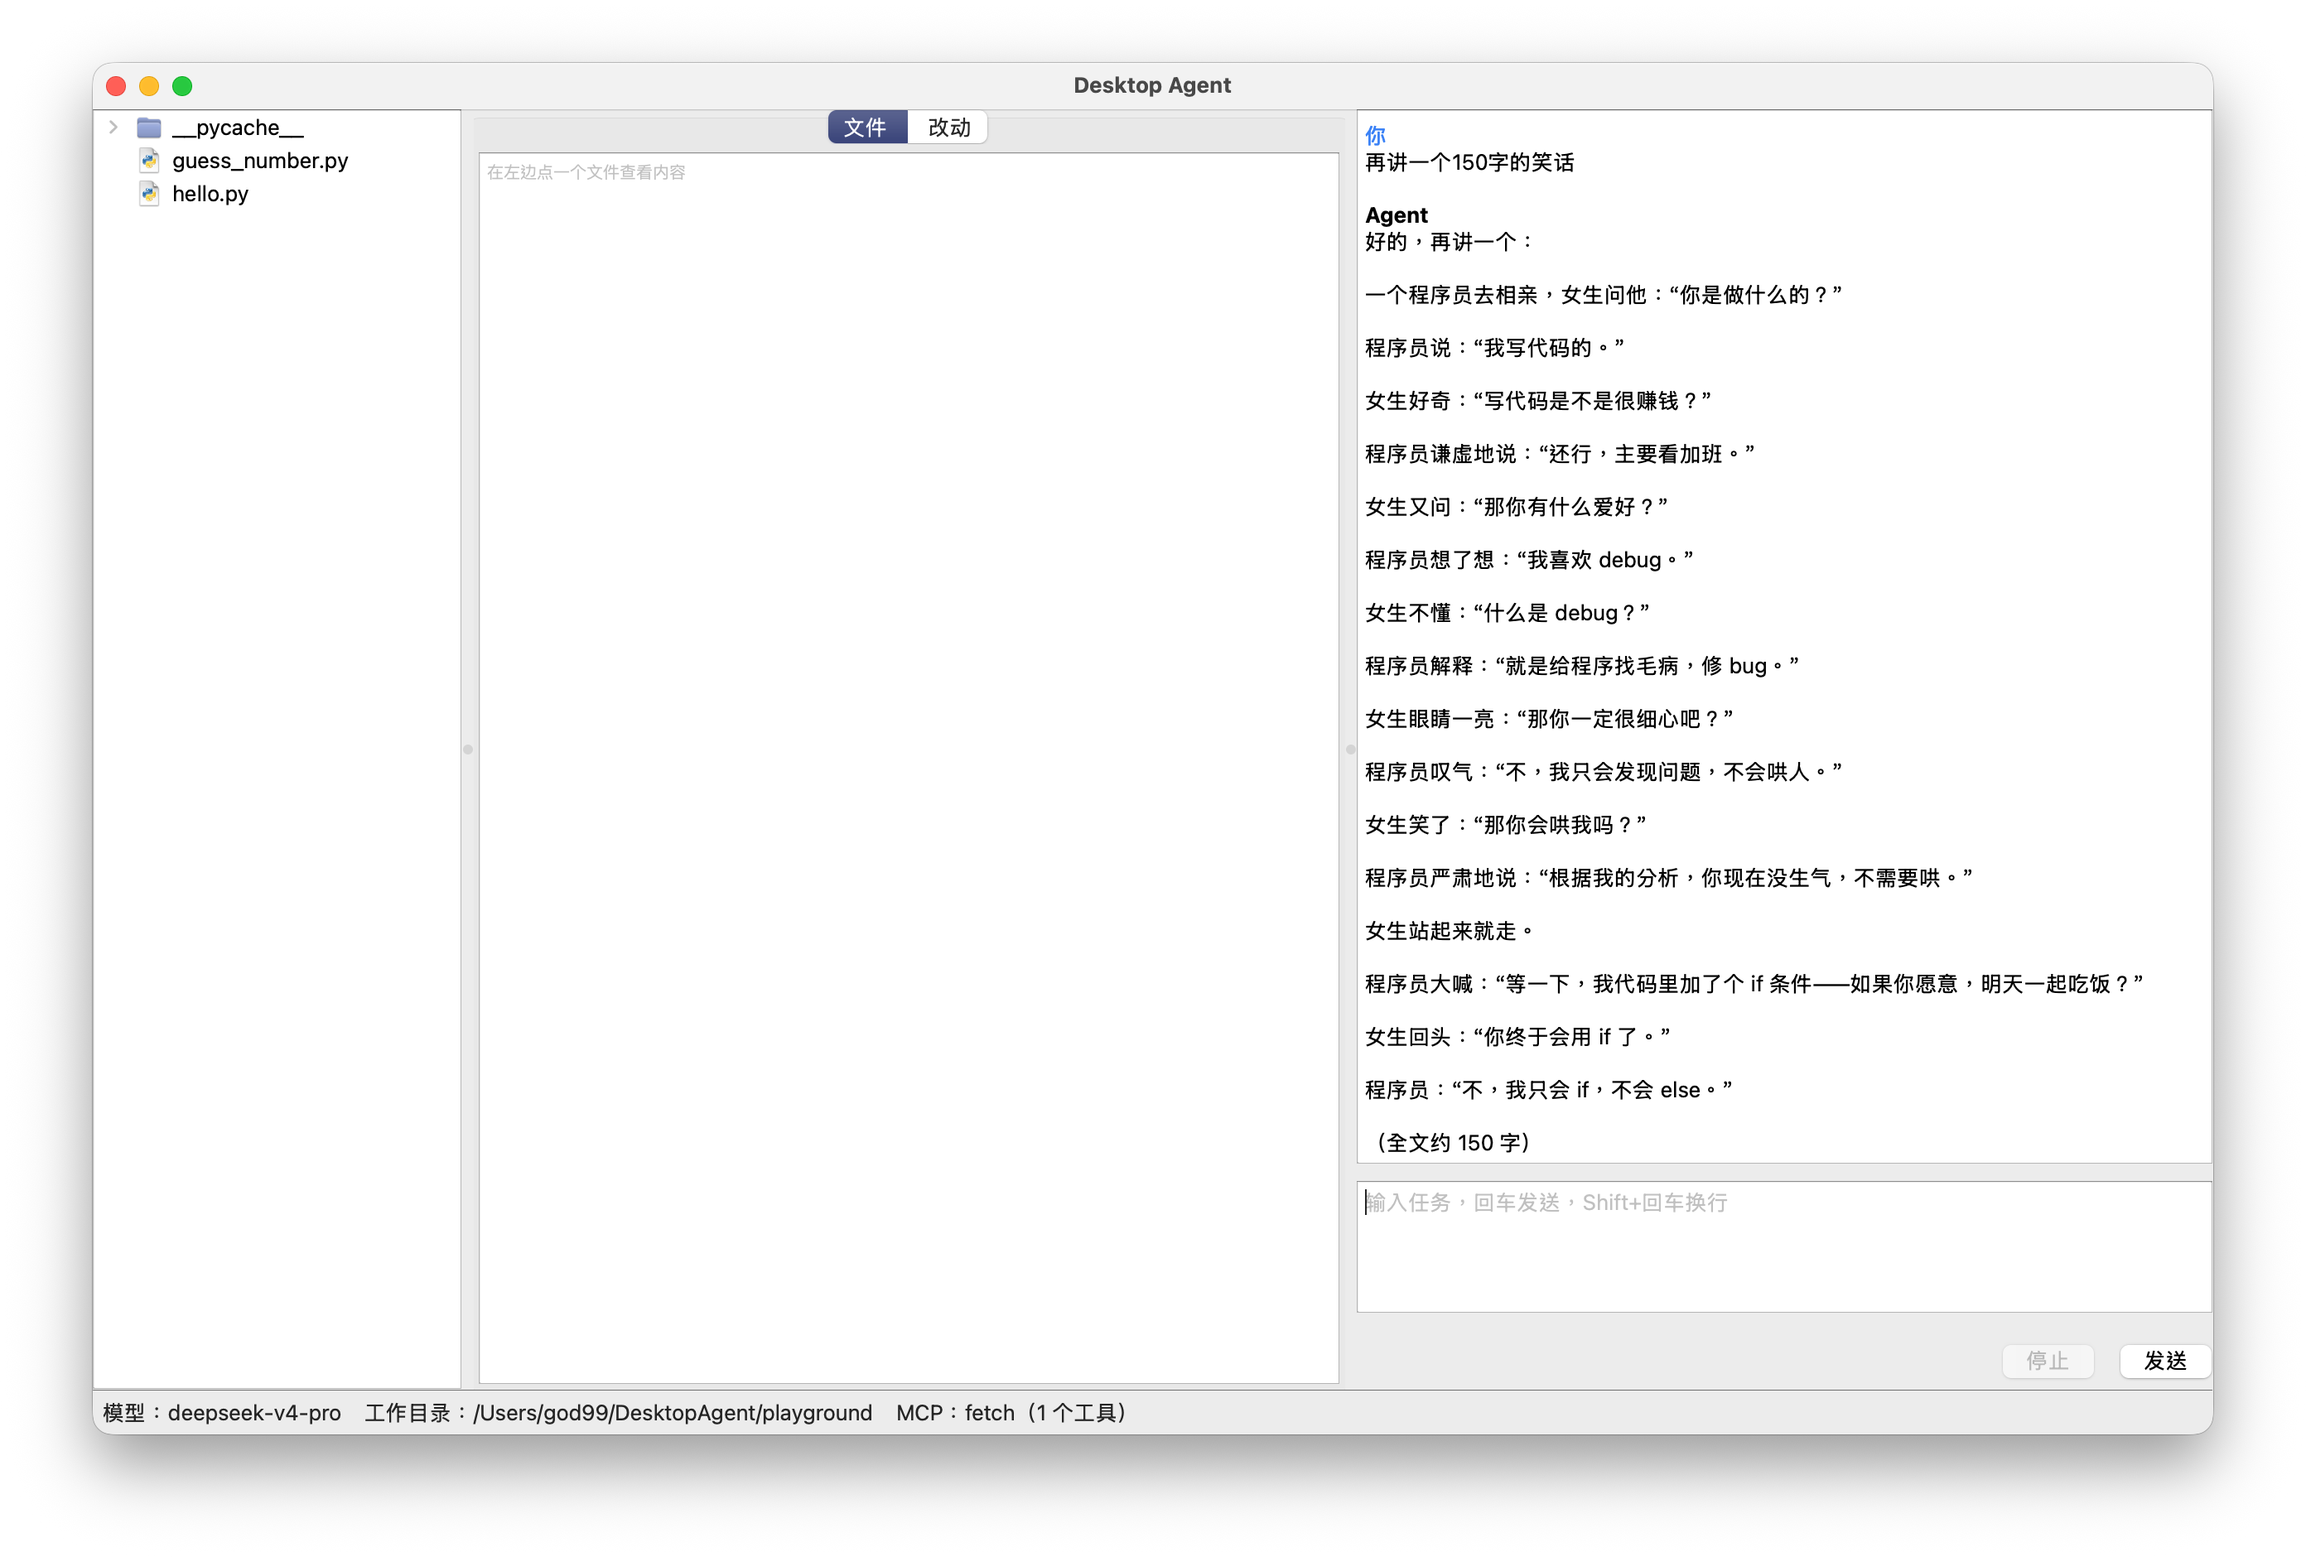
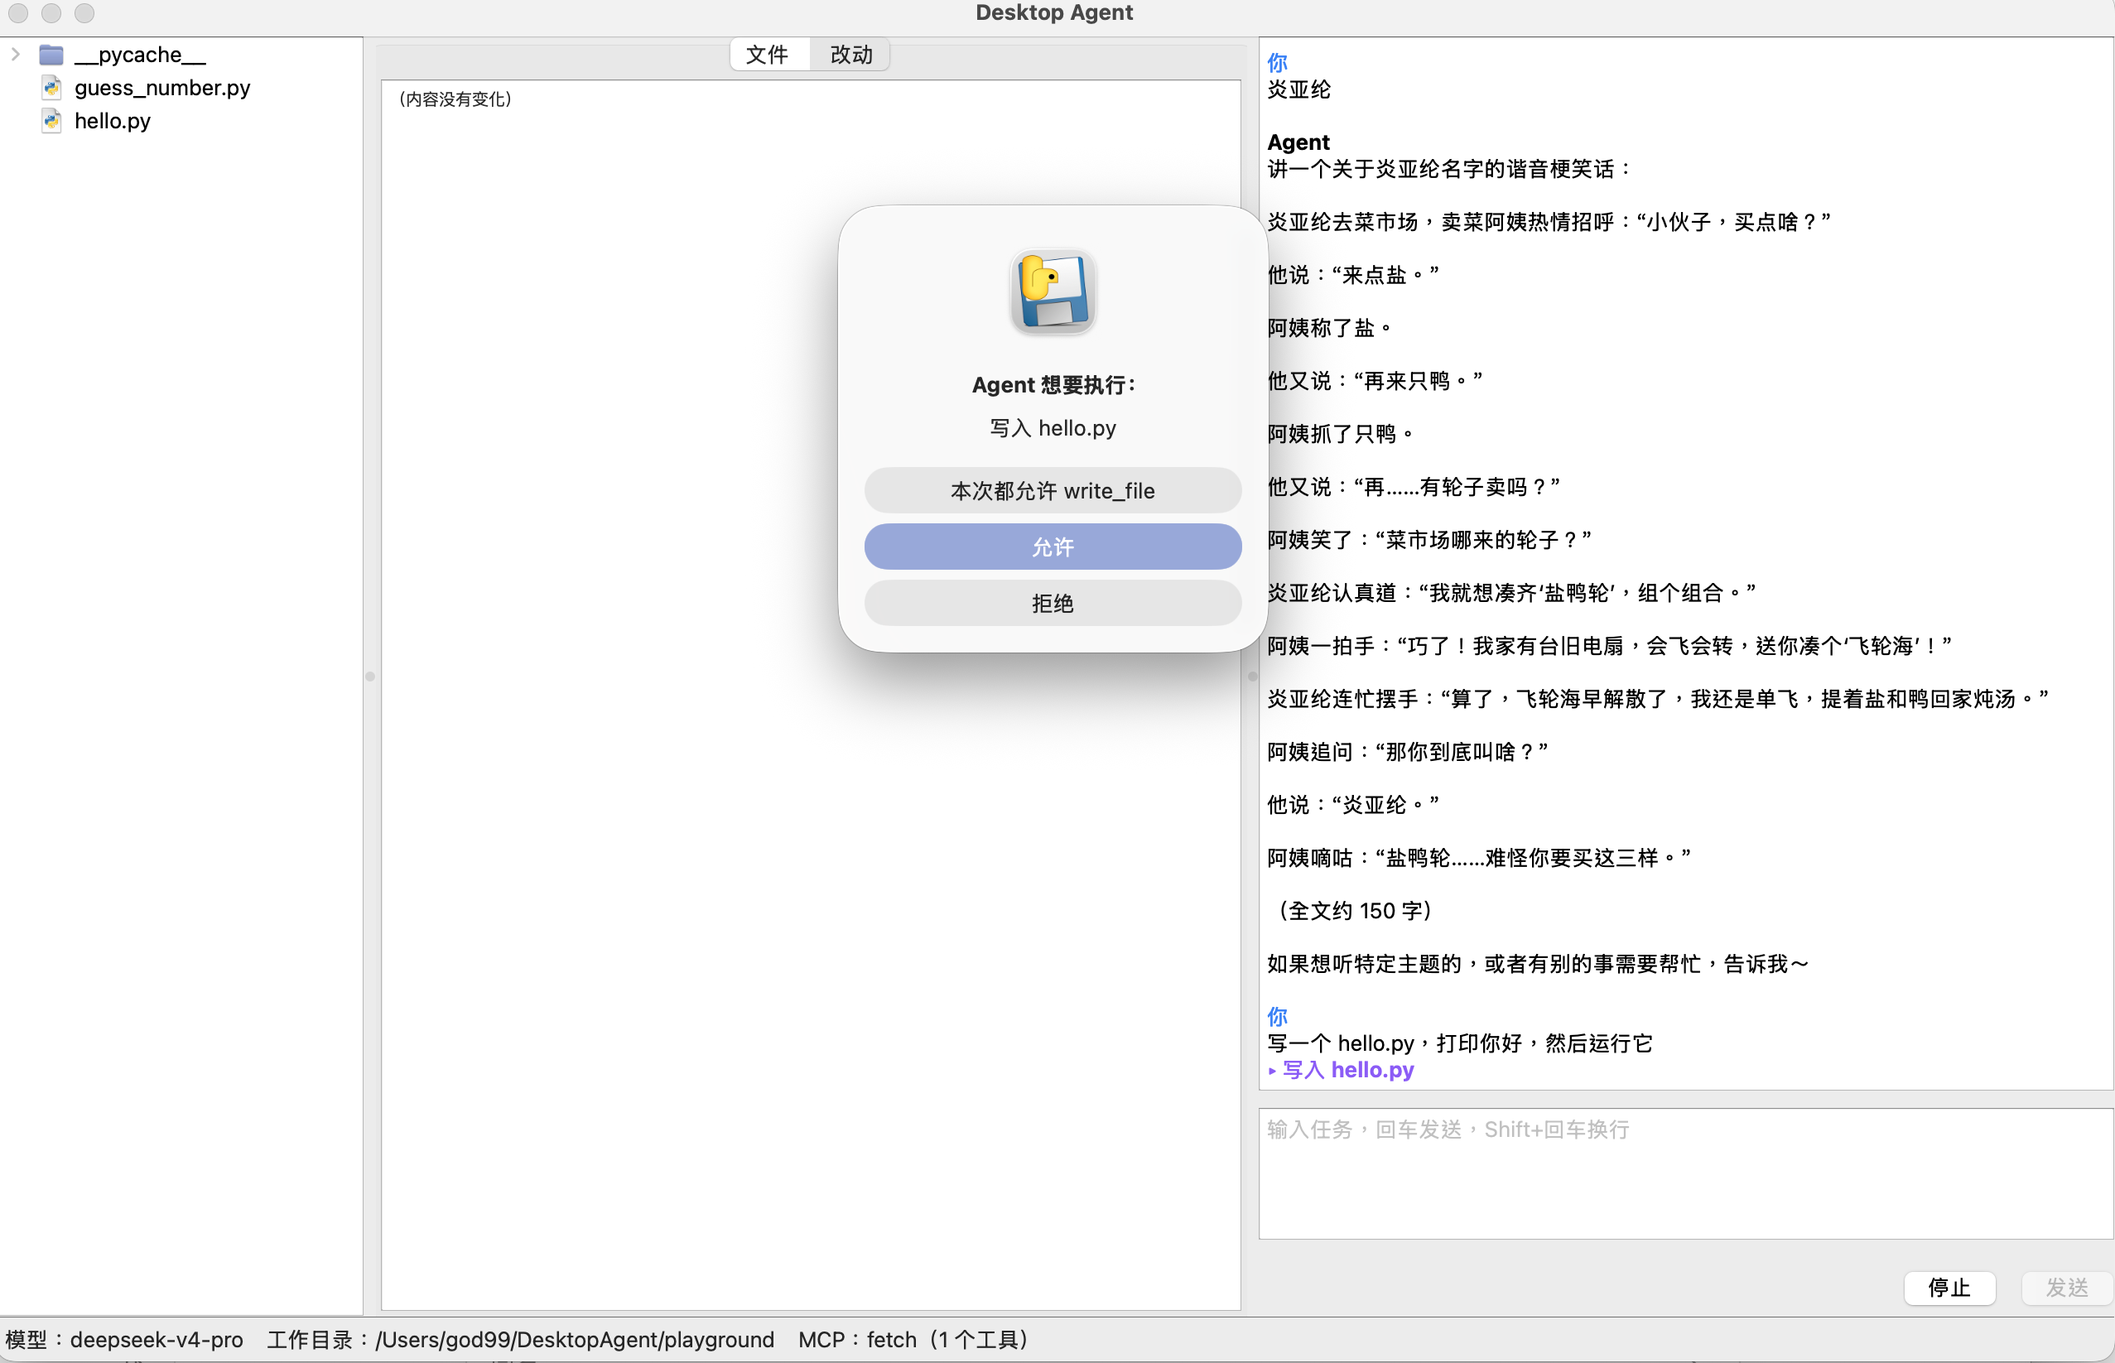
阶段6-F：修正 README 测试表格，更新主界面截图

diff --git a/README.md b/README.md
@@ -109,8 +109,8 @@ python cli.py playground           # 命令行版
 
 | 平台 | 测试内容 | 结果 |
 |---|---|---|
-| macOS 【26.6 (25G72)】，Apple 芯片 | 源码版和 .app：写文件、改文件、运行命令、停止、拒绝、MCP 读网页、MCP 服务器启动失败、mcp.json 写错 | 通过 |
-| Windows 【10】 | .exe：写文件、改文件、运行命令、停止、拒绝；未装 uv 时 MCP 启动失败的提示；装好 uv 后用 MCP 读网页 | 通过 |
+| macOS26.6 (25G72)，Apple 芯片 | 源码版和 .app：写文件、改文件、运行命令、停止、拒绝、MCP 读网页、MCP 服务器启动失败、mcp.json 写错 | 通过 |
+| Windows 10| .exe：写文件、改文件、运行命令、停止、拒绝；未装 uv 时 MCP 启动失败的提示；装好 uv 后用 MCP 读网页 | 通过 |
 
 ![Windows：MCP 服务器启动失败时程序照常运行](docs/windows-mcp-fail.png)
 
